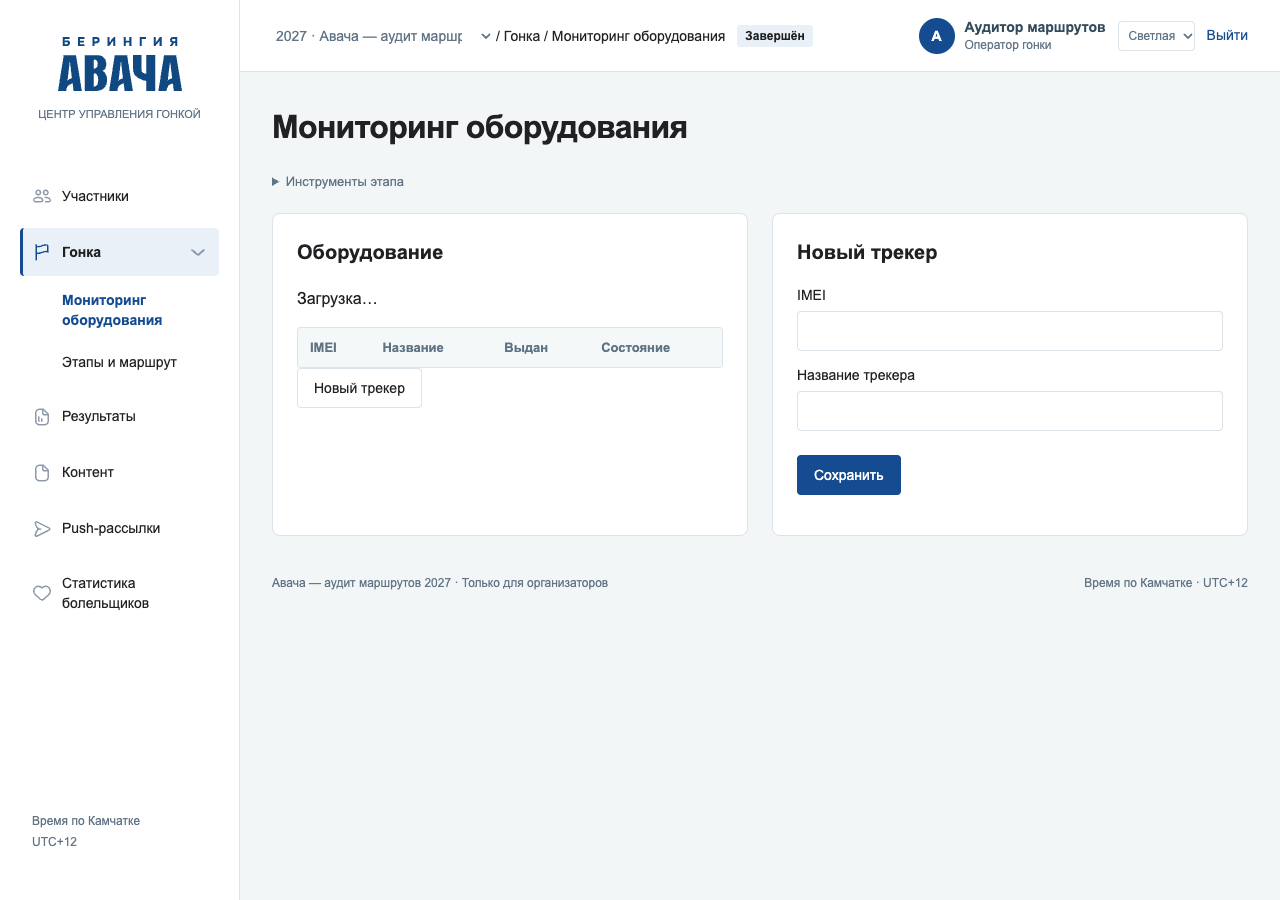
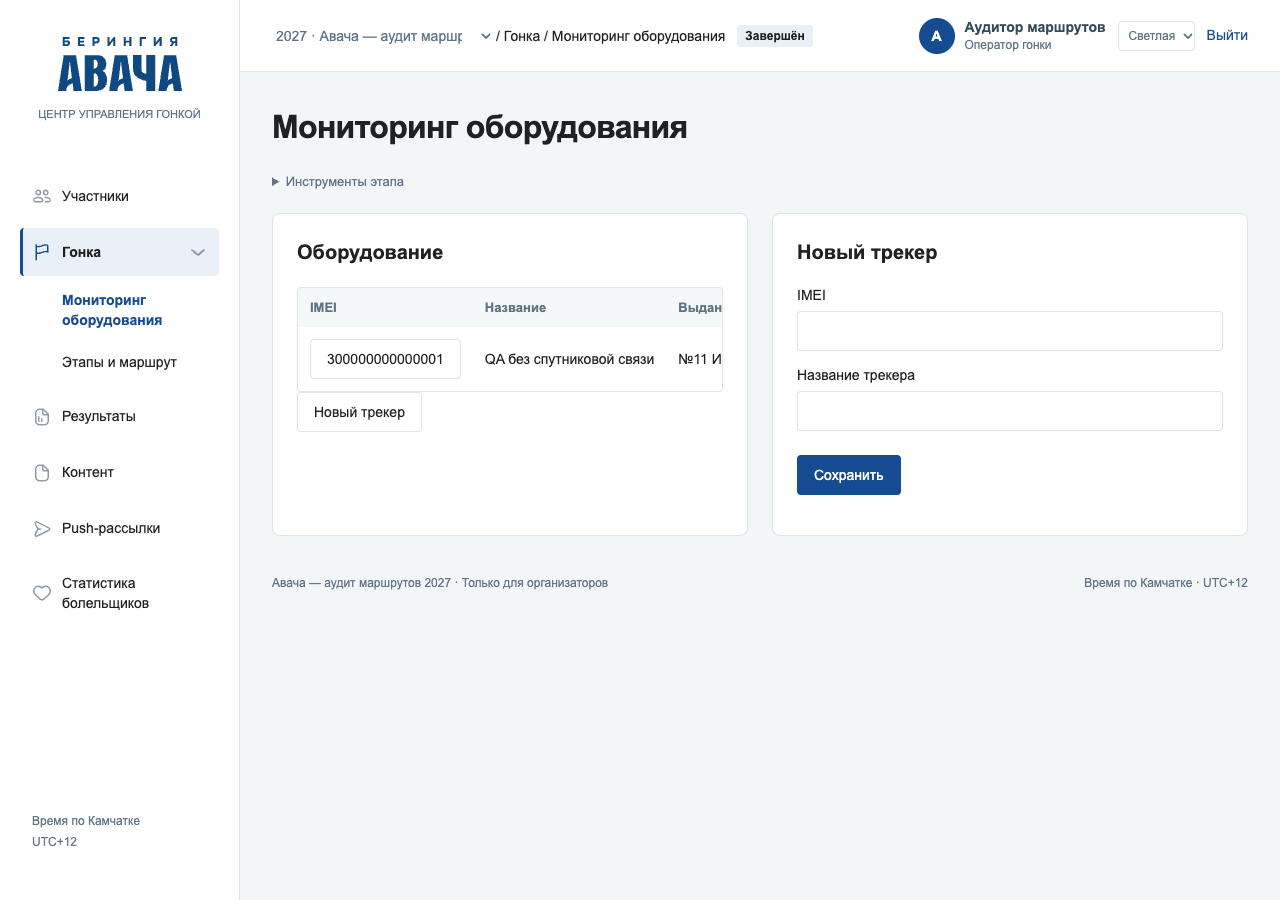
fix: preserve audit acceptance after concurrent main update
Keep complete race dictionary names and adapt focus checks to the updated participant card. Verified 338 frontend, 300 backend, 85 browser and 9 live readback checks; coverage stays at 100%.

Changed region(s): [[0.375, 0.3111, 0.5625, 0.4044], [0.25, 0.3733, 0.3438, 0.4667], [0.2188, 0.3111, 0.2812, 0.3422]]

diff --git a/frontend/e2e/journey-fixes.spec.ts b/frontend/e2e/journey-fixes.spec.ts
@@ -1,6 +1,6 @@
 import {test,expect,type Page} from '@playwright/test';
 import {front,publicApi,ready,noOverflow} from './fixtures';
-import {race,participant,positions} from '../src/stories/fixtures';
+import {race,participant,person,positions} from '../src/stories/fixtures';
 
 // Unlike root font-size scaling, this doubles every rendered text size once.
 async function actualTextScale(page:Page,selector:string){
@@ -40,7 +40,7 @@ test('BUG-02: protocol notice resolves discipline names and hides unknown codes'
 test('BUG-01: long discipline keeps Mine alongside the filter and compact rows',async({page})=>{
  await page.setViewportSize({width:360,height:800});
  const discipline={...participant.discipline,name:'Лыжи — длинная дистанция, 2 собаки'};
- await publicApi(page,{intercept:async(_r,path)=>path==='/races/10'?{data:{...race,disciplines:[{...discipline,participants_count:1}]}}:path==='/races/10/participants'?{data:[{...participant,discipline}]}:undefined});
+ await publicApi(page,{intercept:async(_r,path)=>path==='/races/10'?{data:{...race,disciplines:[{...discipline,participants_count:1}]}}:path==='/races/10/participants'?{data:[{...participant,discipline}]}:path==='/participants/501'?{data:{...person,races:person.races.map(entry=>({...entry,discipline}))}}:undefined});
  await ready(page,front+'/#race=10&section=participants');
  const row=page.locator('.participant-row').first();await expect(row).toBeVisible();
  const tabs=page.getByRole('tablist',{name:'Фильтр участников'}).getByRole('tab');
@@ -48,6 +48,7 @@ test('BUG-01: long discipline keeps Mine alongside the filter and compact rows',
  expect(Math.abs(a!.y-b!.y)).toBeLessThanOrEqual(4);expect((await row.boundingBox())!.height).toBeLessThanOrEqual(82);
  await tabs.first().click();await expect(page.getByRole('radio',{name:discipline.name})).toBeVisible();
  await page.keyboard.press('Escape');await actualTextScale(page,'.race-screen');await noOverflow(page);
+ await row.click();await expect(page.locator('.map-participant__tags')).toContainText(discipline.name);
 });
 
 for(const width of [320,360,390,768,1280])for(const theme of ['light','dark'] as const){
@@ -58,7 +59,10 @@ for(const width of [320,360,390,768,1280])for(const theme of ['light','dark'] as
  for(let attempt=0;attempt<2;attempt++){
   await opener.click();await page.getByRole('dialog',{name:'Карточка участника'}).waitFor();
   expect(await page.locator('[data-focus-guard]').count()).toBe(2);
-  await page.getByText('История выступлений',{exact:true}).waitFor();
+  for(const key of ['Tab','Shift+Tab']){
+   await page.keyboard.press(key);expect(await page.evaluate(()=>Boolean(document.activeElement?.closest('[role=dialog]')))).toBe(true);
+  }
+  await page.getByRole('region',{name:'История контрольных пунктов'}).waitFor();
   if(attempt===1)await actualTextScale(page,'[role=dialog]');
   await page.getByRole('button',{name:'Свернуть',exact:true}).focus();
   for(const key of ['Tab','Shift+Tab'])for(let i=0;i<18;i++){

diff --git a/frontend/src/api/client.ts b/frontend/src/api/client.ts
@@ -5,9 +5,7 @@ export class ApiError extends Error {
   constructor(message: string, public status: number, public code?: string, public details?: unknown) { super(message); }
 }
 export interface Snapshot<T> { data: T; savedAt: string }
-// Подписи как в макетах: «Нарта, 8 собак», «Алиса Иванова». API отдаёт официальные формы
-// (полное название дисциплины, «Фамилия Имя Отчество»); меняем только отображение, копию данных.
-const SHORT_DISCIPLINES: Record<string, string> = { ski_2: 'Лыжи, 2 собаки', sled_8: 'Нарта, 8 собак', sled_8plus: 'Нарта, 8+ собак' };
+// Имя участника отображается как в макете; названия дисциплин сохраняются из справочника.
 export function displayName(fullName: string): string {
   const words = fullName.trim().split(/\s+/);
   return words.length >= 2 ? `${words[1]} ${words[0]}` : fullName;
@@ -17,7 +15,6 @@ export function present<T>(value: T): T {
   if (!value || typeof value !== 'object') return value;
   const copy: Record<string, unknown> = {};
   for (const [key, item] of Object.entries(value)) copy[key] = key === 'full_name' && typeof item === 'string' ? displayName(item) : present(item);
-  if (typeof copy.code === 'string' && typeof copy.name === 'string' && SHORT_DISCIPLINES[copy.code]) copy.name = SHORT_DISCIPLINES[copy.code];
   return copy as T;
 }
 const cacheKey = (path: string) => `avacha-api-v2:${apiBase}${path}`;

diff --git a/frontend/tests/DesignCard.test.tsx b/frontend/tests/DesignCard.test.tsx
@@ -6,10 +6,10 @@ import { displayName, present } from '../src/api/client';
 import { dogsLabel } from '../src/api/format';
 import { fixtureResponse, mockApi, stage } from './fixtures';
 
-it('shows names and discipline labels as in the mockups without touching unknown values', () => {
+it('formats participant names and preserves full discipline names from the race dictionary', () => {
   expect(displayName('Иванова Алиса Петровна')).toBe('Алиса Иванова');
   expect(displayName('Иван')).toBe('Иван');
-  expect(present({ code: 'sled_8plus', name: 'Нарта — длинная дистанция, более 8 собак' }).name).toBe('Нарта, 8+ собак');
+  expect(present({ code: 'sled_8plus', name: 'Нарта — длинная дистанция, более 8 собак' }).name).toBe('Нарта — длинная дистанция, более 8 собак');
   expect(present({ code: 'other', name: 'Своя дисциплина' }).name).toBe('Своя дисциплина');
 });
 

diff --git a/output/journey-fixes/README.md b/output/journey-fixes/README.md
@@ -14,16 +14,18 @@
 | BUG-06 | Штатный focus trap включается без ожидания анимации открытия | Browser 320/360/390/768/1280 px × 2 темы, Tab/Shift+Tab, повторное открытие с текстом 200%, Escape/возврат фокуса; реальное UI-перечитывание |
 | BUG-07 | Попап ограничен viewport и прокручивается; подписи действий переносятся | Browser 5 ширин × 2 темы, фактические fontSize/lineHeight ×2; `notification-320-text200-*.png` (прокручено к действиям) |
 | BUG-08 | Границы карты устанавливаются перед путями, слои маршрута создаются отдельно для каждого эффекта | Настоящий GPX, клики по площадкам на линии, refresh/navigation/reload; real Leaflet StrictMode unit; `watch-real-gpx.png` |
-| BUILD-01 | Проверены default/custom API base, пороги не снижены | Frontend `npm run check`: 333 passed, 100% по всем четырём метрикам покрытия |
+| BUILD-01 | Проверены default/custom API base, пороги не снижены | Frontend `npm run check`: 338 passed, 100% по всем четырём метрикам покрытия |
 | BUILD-02 | Проверены default/custom base в JSON и CSV | Admin `npm run check`: 126 passed, 100% по всем четырём метрикам покрытия |
 
 Изображения и JSON находятся в [evidence](evidence/). Журнал действий и причин — [WORKLOG.md](WORKLOG.md).
 
+Перед финальной проверкой в ветку объединён актуальный `main` (`2baf7a8`). Новые решения карточки и демо-сезона сохранены; глобальная подмена названий дисциплин удалена, чтобы полные названия по BUG-01/02 оставались доступными. Добавленная параллельно миграция принадлежит этому коммиту main, исправления аудита миграций не добавляют.
+
 ## Результаты проверки
 
-- Frontend: lint, TypeScript, 333 теста, 100% per-file coverage, production и Storybook — успешно.
+- Frontend: lint, TypeScript, 338 теста, 100% per-file coverage, production и Storybook — успешно.
 - Admin: lint, TypeScript, 126 тестов, 100% per-file coverage, production и Storybook — успешно.
-- Backend: 298 тестов в отдельной PostgreSQL-БД — успешно, включая миграции и сохранность данных.
+- Backend: 300 тестов в отдельной PostgreSQL-БД — успешно, включая миграции и сохранность данных.
 - Playwright: **85 passed**, включая 23 новых браузерных случая; прежние 62 также прошли.
 - Реальный контур frontend/admin → API → audit PostgreSQL: **9 проверок**, **0 pageerror**, без подмены API и создания GPS/SOS.
 - БД: **22/22 read-only assertions**, в том числе протокол 04:02:00, штраф без повторного начисления, судейский журнал, закладки и настройки.

diff --git a/output/journey-fixes/WORKLOG.md b/output/journey-fixes/WORKLOG.md
@@ -19,3 +19,5 @@
 - Визуально просмотрены участники, реальная карта и попап 320px в обеих темах; сохранены итоговые PNG. npm audit обоих приложений: 0 vulnerabilities.
 - Самопроверка итогового diff: изменения локальны, контракты и миграции сохранены, новых зависимостей нет.
 - Созданы пять тематических коммитов, ветка отправлена в origin; открыт PR #10: https://github.com/giuliajp/Kamchatka/pull/10. Перед слиянием ожидаются четыре обязательные CI-задачи. Финальная проверка diff выявила только CRLF в CSV-реестре; нормализованы переводы строк.
+- CI выявил параллельное обновление main до 2baf7a8: новый вид карточки убрал историю выступлений, а нормализация API сокращала названия дисциплин. Main объединён без конфликтов; проверка загрузки привязана к актуальному разделу КП. Новое сокращение названий удалено как несовместимое с BUG-01/02 (полное имя из справочника в списке и карточке); unit-тест сначала подтвердил ожидаемое падение. Форматирование имён участников и остальные изменения main сохранены. Повторяются проверки объединённой версии.
+- Объединённая версия: frontend npm run check — 338 passed и прежние 100% пороги; backend — 300 passed в изолированной БД; Chromium Playwright — 85/85; повторное UI-перечитывание — 9/9 без pageerror. Обновлены снимки, реестр и числа проверок. Дополнительно проверены полное название в карточке и Tab/Shift+Tab сразу после открытия.
